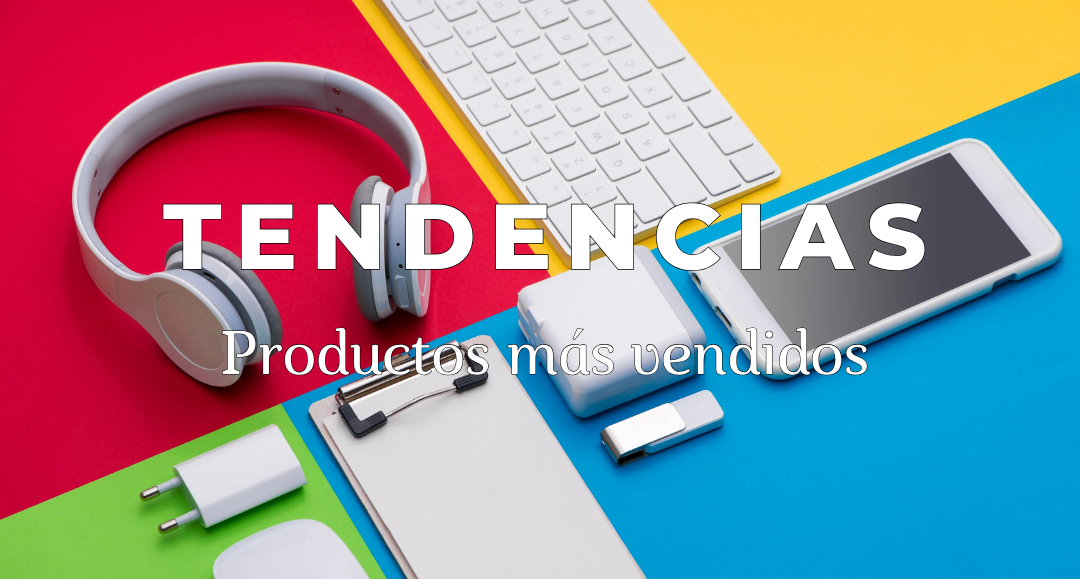
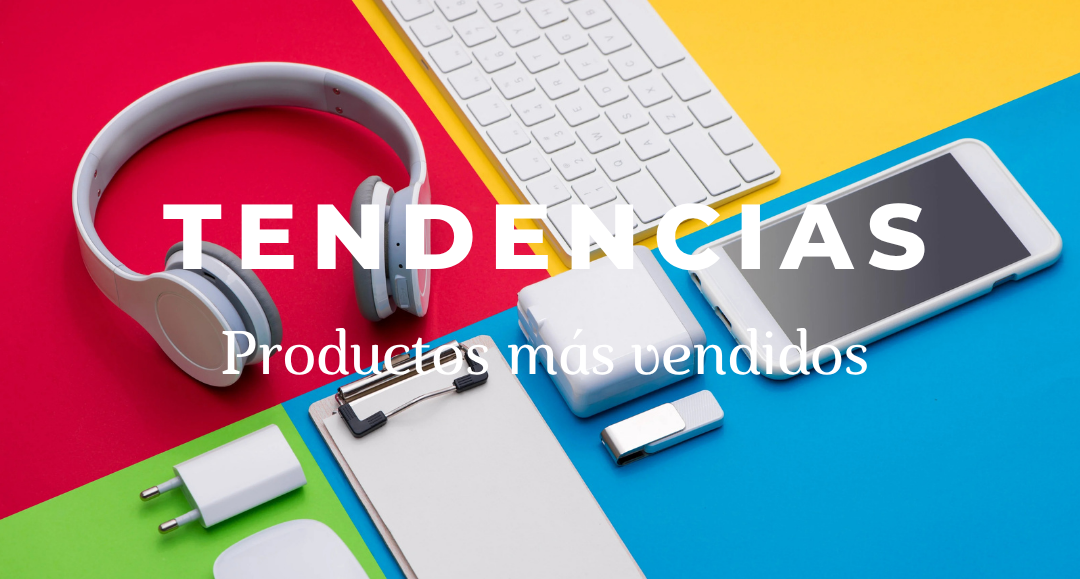
Complementacion del Home y arreglos en el carrusel

diff --git a/Home.html b/Home.html
@@ -8,10 +8,11 @@
     <script src="https://cdn.jsdelivr.net/npm/bootstrap@5.3.8/dist/js/bootstrap.bundle.min.js" integrity="sha384-FKyoEForCGlyvwx9Hj09JcYn3nv7wiPVlz7YYwJrWVcXK/BmnVDxM+D2scQbITxI" crossorigin="anonymous"></script>
     <link rel="stylesheet" href="css/styles.css">
 </head>
-<body>
-    <nav class="navbar navbar-expand-lg bg-body-tertiary">
+<body style="background-color: rgb(255, 245, 152);">
+    
+    <nav class="navbar navbar-expand-lg bg-body-tertiary" >
         <div class="container-fluid">
-            <a class="navbar-brand" href="index.html"><img src="img/pollo-camina.gif" alt="logo" height="70px" width="50px"></a>
+            <a class="navbar-brand" href="index.html"><img src="img/Logo.png" alt="logo" height="70px" width="120px"></a>
             <button class="navbar-toggler" type="button" data-bs-toggle="collapse" data-bs-target="#navbarSupportedContent" aria-controls="navbarSupportedContent" aria-expanded="false" aria-label="Toggle navigation">
             <span class="navbar-toggler-icon"></span>
             </button>
@@ -19,9 +20,6 @@
             <ul class="navbar-nav me-auto mb-2 mb-lg-0">
                 <li class="nav-item">
                 <a class="nav-link active" aria-current="page" href="Home.html">Home</a>
-                </li>
-                <li class="nav-item">
-                <a class="nav-link" href="Home.html">Home</a>
                 </li>
                 <li class="nav-item">
                 <a class="nav-link" href="Productos.html">Productos</a>
@@ -40,17 +38,17 @@
             </div>
         </div>
         </nav>
-
-        <div id="carouselExampleAutoplaying" class="carousel slide" data-bs-ride="carousel">
+<div class="container">
+    <div id="carouselExampleAutoplaying" class="carousel slide" data-bs-ride="carousel">
             <div class="carousel-inner">
                 <div class="carousel-item active">
-                <img src="..." class="d-block w-100" alt="...">
+                <img src="img/Carrusel1.png" class="d-block w-100" alt="...">
                 </div>
                 <div class="carousel-item">
-                <img src="..." class="d-block w-100" alt="...">
+                <img src="img/Carrusel2.png" class="d-block w-100" alt="...">
                 </div>
                 <div class="carousel-item">
-                <img src="..." class="d-block w-100" alt="...">
+                <img src="img/Carrusel3.png" class="d-block w-100" alt="...">
                 </div>
             </div>
             <button class="carousel-control-prev" type="button" data-bs-target="#carouselExampleAutoplaying" data-bs-slide="prev">
@@ -62,5 +60,235 @@
                 <span class="visually-hidden">Next</span>
             </button>
         </div>
+</div>
+
+<div class="container">
+    <table class="table table-borderless">
+  <thead>
+    <tr>
+      <th scope="col">
+        <div class="card" style="width: 18rem;">
+        <img src="..." class="card-img-top" alt="...">
+        <div class="card-body">
+            <h5 class="card-title">Card title</h5>
+            <p class="card-text">Some quick example text to build on the card title and make up the bulk of the card’s content.</p>
+            <a href="#" class="btn btn-primary">Go somewhere</a>
+        </div>
+    </div>
+      </th>
+      <th scope="col">
+        <div class="card" style="width: 18rem;">
+        <img src="..." class="card-img-top" alt="...">
+        <div class="card-body">
+            <h5 class="card-title">Card title</h5>
+            <p class="card-text">Some quick example text to build on the card title and make up the bulk of the card’s content.</p>
+            <a href="#" class="btn btn-primary">Go somewhere</a>
+        </div>
+      </th>
+      <th scope="col">
+        <div class="card" style="width: 18rem;">
+        <img src="..." class="card-img-top" alt="...">
+        <div class="card-body">
+            <h5 class="card-title">Card title</h5>
+            <p class="card-text">Some quick example text to build on the card title and make up the bulk of the card’s content.</p>
+            <a href="#" class="btn btn-primary">Go somewhere</a>
+        </div>
+      </th>
+    </tr>
+  </thead>
+  <tbody>
+    <tr>
+      <td>
+        <div class="card" style="width: 18rem;">
+        <img src="..." class="card-img-top" alt="...">
+        <div class="card-body">
+            <h5 class="card-title">Card title</h5>
+            <p class="card-text">Some quick example text to build on the card title and make up the bulk of the card’s content.</p>
+            <a href="#" class="btn btn-primary">Go somewhere</a>
+        </div>
+      </td>
+      <td>
+        <div class="card" style="width: 18rem;">
+        <img src="..." class="card-img-top" alt="...">
+        <div class="card-body">
+            <h5 class="card-title">Card title</h5>
+            <p class="card-text">Some quick example text to build on the card title and make up the bulk of the card’s content.</p>
+            <a href="#" class="btn btn-primary">Go somewhere</a>
+        </div>
+      </td>
+      <td>
+        <div class="card" style="width: 18rem;">
+        <img src="..." class="card-img-top" alt="...">
+        <div class="card-body">
+            <h5 class="card-title">Card title</h5>
+            <p class="card-text">Some quick example text to build on the card title and make up the bulk of the card’s content.</p>
+            <a href="#" class="btn btn-primary">Go somewhere</a>
+        </div>
+      </td>
+    </tr>
+    
+  </tbody>
+</table>
+</div>
+
+<div class="container">
+    <div id="carouselExample" class="carousel slide">
+  <div class="carousel-inner">
+    <div class="carousel-item active">
+      <div class="row align-items-end">
+    <div class="col">
+
+        <th scope="col">
+        <div class="card" style="width: 18rem;">
+        <img src="..." class="card-img-top" alt="...">
+        <div class="card-body">
+            <h5 class="card-title">Card title</h5>
+            <p class="card-text">Some quick example text to build on the card title and make up the bulk of the card’s content.</p>
+            <a href="#" class="btn btn-primary">Go somewhere</a>
+        </div>
+    </div>
+      </th>
+
+    </div>
+    <div class="col">
+
+        <th scope="col">
+        <div class="card" style="width: 18rem;">
+        <img src="..." class="card-img-top" alt="...">
+        <div class="card-body">
+            <h5 class="card-title">Card title</h5>
+            <p class="card-text">Some quick example text to build on the card title and make up the bulk of the card’s content.</p>
+            <a href="#" class="btn btn-primary">Go somewhere</a>
+        </div>
+    </div>
+      </th>
+      
+    </div>
+    <div class="col">
+
+        <th scope="col">
+        <div class="card" style="width: 18rem;">
+        <img src="..." class="card-img-top" alt="...">
+        <div class="card-body">
+            <h5 class="card-title">Card title</h5>
+            <p class="card-text">Some quick example text to build on the card title and make up the bulk of the card’s content.</p>
+            <a href="#" class="btn btn-primary">Go somewhere</a>
+        </div>
+    </div>
+      </th>
+
+    </div>
+  </div>
+    </div>
+    <div class="carousel-item">
+      <div class="row align-items-end">
+    <div class="col">
+
+        <th scope="col">
+        <div class="card" style="width: 18rem;">
+        <img src="..." class="card-img-top" alt="...">
+        <div class="card-body">
+            <h5 class="card-title">Card title</h5>
+            <p class="card-text">Some quick example text to build on the card title and make up the bulk of the card’s content.</p>
+            <a href="#" class="btn btn-primary">Go somewhere</a>
+        </div>
+    </div>
+      </th>
+
+    </div>
+    <div class="col">
+
+        <th scope="col">
+        <div class="card" style="width: 18rem;">
+        <img src="..." class="card-img-top" alt="...">
+        <div class="card-body">
+            <h5 class="card-title">Card title</h5>
+            <p class="card-text">Some quick example text to build on the card title and make up the bulk of the card’s content.</p>
+            <a href="#" class="btn btn-primary">Go somewhere</a>
+        </div>
+    </div>
+      </th>
+
+    </div>
+    <div class="col">
+
+        <th scope="col">
+        <div class="card" style="width: 18rem;">
+        <img src="..." class="card-img-top" alt="...">
+        <div class="card-body">
+            <h5 class="card-title">Card title</h5>
+            <p class="card-text">Some quick example text to build on the card title and make up the bulk of the card’s content.</p>
+            <a href="#" class="btn btn-primary">Go somewhere</a>
+        </div>
+    </div>
+      </th>
+
+    </div>
+  </div>
+    </div>
+    <div class="carousel-item">
+      <div class="row align-items-end">
+    <div class="col">
+
+        <th scope="col">
+        <div class="card" style="width: 18rem;">
+        <img src="..." class="card-img-top" alt="...">
+        <div class="card-body">
+            <h5 class="card-title">Card title</h5>
+            <p class="card-text">Some quick example text to build on the card title and make up the bulk of the card’s content.</p>
+            <a href="#" class="btn btn-primary">Go somewhere</a>
+        </div>
+    </div>
+      </th>
+
+    </div>
+    <div class="col">
+
+        <th scope="col">
+        <div class="card" style="width: 18rem;">
+        <img src="..." class="card-img-top" alt="...">
+        <div class="card-body">
+            <h5 class="card-title">Card title</h5>
+            <p class="card-text">Some quick example text to build on the card title and make up the bulk of the card’s content.</p>
+            <a href="#" class="btn btn-primary">Go somewhere</a>
+        </div>
+    </div>
+      </th>
+
+    </div>
+    <div class="col">
+
+        <th scope="col">
+        <div class="card" style="width: 18rem;">
+        <img src="..." class="card-img-top" alt="...">
+        <div class="card-body">
+            <h5 class="card-title">Card title</h5>
+            <p class="card-text">Some quick example text to build on the card title and make up the bulk of the card’s content.</p>
+            <a href="#" class="btn btn-primary">Go somewhere</a>
+        </div>
+    </div>
+      </th>
+
+    </div>
+  </div>
+    </div>
+  </div>
+  <button class="carousel-control-prev" type="button" data-bs-target="#carouselExample" data-bs-slide="prev">
+    <span class="carousel-control-prev-icon" aria-hidden="true"></span>
+    <span class="visually-hidden">Previous</span>
+  </button>
+  <button class="carousel-control-next" type="button" data-bs-target="#carouselExample" data-bs-slide="next">
+    <span class="carousel-control-next-icon" aria-hidden="true"></span>
+    <span class="visually-hidden">Next</span>
+  </button>
+</div>
+</div>
+
+
+
+<footer>
+  <p>© 2026 CLstore. Todos los derechos reservados.</p>
+  <a href="Contacto.html">Contacto</a>
+</footer>      
 </body>
 </html>

diff --git a/Carrito.html b/Carrito.html
@@ -1,0 +1,11 @@
+<!DOCTYPE html>
+<html lang="en">
+<head>
+    <meta charset="UTF-8">
+    <meta name="viewport" content="width=device-width, initial-scale=1.0">
+    <title>Carrito</title>
+</head>
+<body>
+    
+</body>
+</html>
